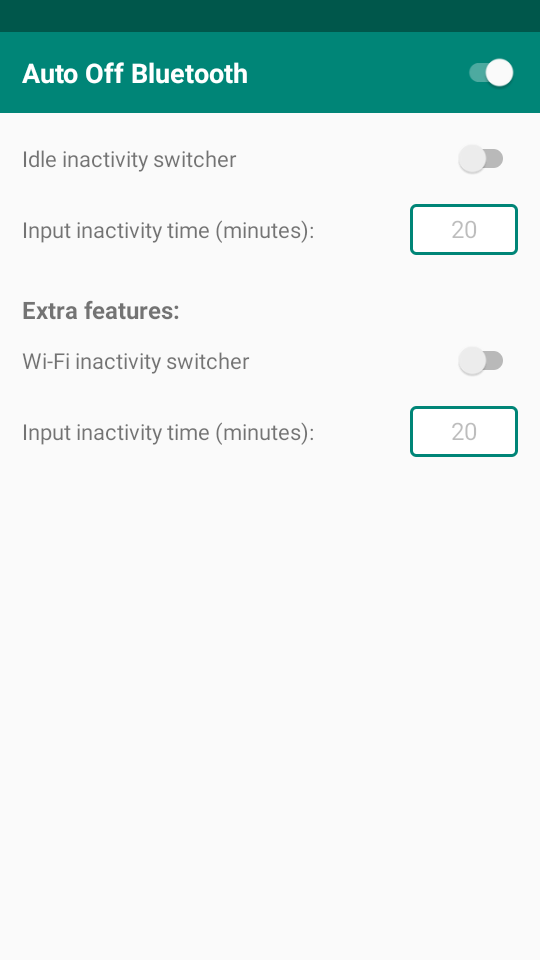
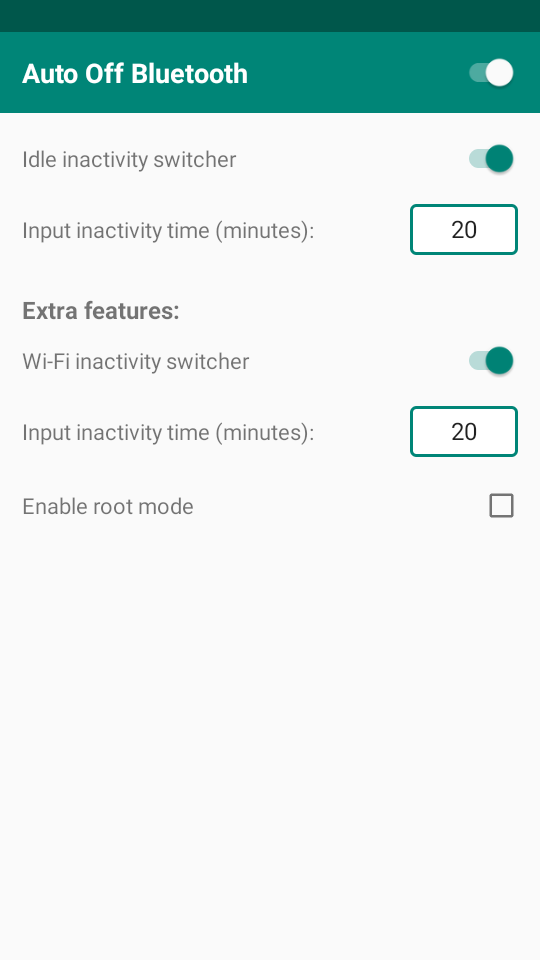
Merge from development (#5)

diff --git a/app/src/main/java/com/mine/autooffbluetooth/MainActivity.java b/app/src/main/java/com/mine/autooffbluetooth/MainActivity.java
@@ -1,7 +1,6 @@
 package com.mine.autooffbluetooth;
 
 import android.Manifest;
-import android.app.AlarmManager;
 import android.bluetooth.BluetoothAdapter;
 import android.content.Context;
 import android.content.Intent;
@@ -16,17 +15,17 @@ import android.provider.Settings;
 import android.text.Editable;
 import android.text.TextWatcher;
 import android.util.Log;
-import android.view.View;
+import android.widget.CheckBox;
 import android.widget.EditText;
 import android.widget.Switch;
 import android.widget.Toast;
+
 import androidx.annotation.NonNull;
-import androidx.appcompat.app.AlertDialog;
 import androidx.appcompat.app.AppCompatActivity;
 import androidx.appcompat.widget.SwitchCompat;
 import androidx.core.app.ActivityCompat;
 import androidx.core.content.ContextCompat;
-import androidx.lifecycle.Lifecycle;
+
 import java.util.ArrayList;
 import java.util.List;
 import java.util.concurrent.Executors;
@@ -34,6 +33,7 @@ import java.util.concurrent.Executors;
 public class MainActivity extends AppCompatActivity {
 
     public static final String PREF_MASTER_SWITCH = "master_switch_enabled";
+    public static final String PREF_WIFI_ROOT_MODE = "wifi_root_mode_enabled";
 
     // Sequential permission flow
     private static final int STEP_RUNTIME_PERMS = 0;
@@ -48,6 +48,7 @@ public class MainActivity extends AppCompatActivity {
     private InactivityTimer inactivityTimer;
     private Switch wifiInactivitySwitch;
     private EditText wifiInactivityTimeInput;
+    private CheckBox rootModeCheckBox;
     private WifiInactivityTimer wifiInactivityTimer;
 
     @Override
@@ -60,7 +61,7 @@ public class MainActivity extends AppCompatActivity {
         initializeInactivityUI();
         initializeWifiInactivityUI();
 
-        // BTReceiver/WifiStateReceiver only ever fire when dynamically registered by this running service - a manifest <receiver> for these actions is never invoked under Android's background limits.
+        // BTReceiver/WifiStateReceiver only ever fire when dynamically registered by this running service.
         ContextCompat.startForegroundService(this, new Intent(this, MonitorService.class));
 
         // Ask for everything the app needs, one prompt at a time
@@ -110,11 +111,11 @@ public class MainActivity extends AppCompatActivity {
         if (inactivitySwitch != null && inactivityTimeInput != null) {
             boolean isEnabled = inactivityTimer.isInactivityEnabled();
             int inactivityMinutes = inactivityTimer.getInactivityTime();
-            
+
             inactivitySwitch.setChecked(isEnabled);
             inactivityTimeInput.setText(String.valueOf(inactivityMinutes));
             inactivityTimeInput.setEnabled(isEnabled);
-            
+
             inactivitySwitch.setOnCheckedChangeListener((buttonView, isChecked) -> {
                 inactivityTimer.setInactivityEnabled(isChecked);
                 inactivityTimeInput.setEnabled(isChecked);
@@ -129,8 +130,11 @@ public class MainActivity extends AppCompatActivity {
             });
 
             inactivityTimeInput.addTextChangedListener(new TextWatcher() {
-                @Override public void beforeTextChanged(CharSequence s, int start, int count, int after) {}
-                @Override public void onTextChanged(CharSequence s, int start, int before, int count) {}
+                @Override
+                public void beforeTextChanged(CharSequence s, int start, int count, int after) {}
+
+                @Override
+                public void onTextChanged(CharSequence s, int start, int before, int count) {}
 
                 @Override
                 public void afterTextChanged(Editable s) {
@@ -141,9 +145,10 @@ public class MainActivity extends AppCompatActivity {
                                 Log.d("MainActivity", "Time updated to " + minutes + "m. Rescheduling timer...");
                                 rescheduleTimerIfNecessary();
                             } else {
-                                Toast.makeText(MainActivity.this, 
-                                    "Min: " + InactivityTimer.getMinInactivityMinutes() + " Max: " + InactivityTimer.getMaxInactivityMinutes(), 
-                                    Toast.LENGTH_SHORT).show();
+                                Toast.makeText(MainActivity.this,
+                                        "Min: " + InactivityTimer.getMinInactivityMinutes()
+                                                + " Max: " + InactivityTimer.getMaxInactivityMinutes(),
+                                        Toast.LENGTH_SHORT).show();
                             }
                         } catch (NumberFormatException e) {
                             Log.e("MainActivity", "Invalid input");
@@ -196,6 +201,37 @@ public class MainActivity extends AppCompatActivity {
     private void initializeWifiInactivityUI() {
         wifiInactivitySwitch = findViewById(R.id.wifiInactivitySwitch);
         wifiInactivityTimeInput = findViewById(R.id.wifiInactivityTimeInput);
+        rootModeCheckBox = findViewById(R.id.rootModeCheckBox);
+
+        SharedPreferences prefs = PreferenceManager.getDefaultSharedPreferences(this);
+
+        if (rootModeCheckBox != null) {
+            rootModeCheckBox.setChecked(prefs.getBoolean(PREF_WIFI_ROOT_MODE, false));
+            rootModeCheckBox.setOnCheckedChangeListener((buttonView, isChecked) -> {
+                if (!isChecked) {
+                    prefs.edit().putBoolean(PREF_WIFI_ROOT_MODE, false).apply();
+                    return;
+                }
+
+                // Verify root access off the main thread because the su prompt may wait for user input.
+                rootModeCheckBox.setEnabled(false);
+                Toast.makeText(this, R.string.rootRequiredMessage, Toast.LENGTH_LONG).show();
+
+                Executors.newSingleThreadExecutor().execute(() -> {
+                    boolean granted = RootUtils.requestRootAccess();
+                    runOnUiThread(() -> {
+                        rootModeCheckBox.setEnabled(true);
+                        if (granted) {
+                            prefs.edit().putBoolean(PREF_WIFI_ROOT_MODE, true).apply();
+                        } else {
+                            prefs.edit().putBoolean(PREF_WIFI_ROOT_MODE, false).apply();
+                            rootModeCheckBox.setChecked(false);
+                            Toast.makeText(MainActivity.this, R.string.rootDeniedMessage, Toast.LENGTH_LONG).show();
+                        }
+                    });
+                });
+            });
+        }
 
         if (wifiInactivitySwitch == null || wifiInactivityTimeInput == null) return;
 
@@ -206,31 +242,15 @@ public class MainActivity extends AppCompatActivity {
         wifiInactivityTimeInput.setText(String.valueOf(inactivityMinutes));
         wifiInactivityTimeInput.setEnabled(isEnabled);
 
-        wifiInactivitySwitch.setOnCheckedChangeListener((buttonView, isChecked) -> {
-            if (isChecked && Build.VERSION.SDK_INT >= Build.VERSION_CODES.Q) {
-                // Android 10+ needs root to toggle Wi-Fi. Request it only now, off the main thread since the su prompt can block on user input.
-                wifiInactivitySwitch.setEnabled(false);
-                Toast.makeText(this, R.string.rootRequiredMessage, Toast.LENGTH_LONG).show();
-                Executors.newSingleThreadExecutor().execute(() -> {
-                    boolean granted = RootUtils.requestRootAccess();
-                    runOnUiThread(() -> {
-                        wifiInactivitySwitch.setEnabled(true);
-                        if (granted) {
-                            applyWifiInactivityEnabled(true);
-                        } else {
-                            Toast.makeText(MainActivity.this, R.string.rootDeniedMessage, Toast.LENGTH_LONG).show();
-                            wifiInactivitySwitch.setChecked(false);
-                        }
-                    });
-                });
-            } else {
-                applyWifiInactivityEnabled(isChecked);
-            }
-        });
+        wifiInactivitySwitch.setOnCheckedChangeListener((buttonView, isChecked) ->
+                applyWifiInactivityEnabled(isChecked));
 
         wifiInactivityTimeInput.addTextChangedListener(new TextWatcher() {
-            @Override public void beforeTextChanged(CharSequence s, int start, int count, int after) {}
-            @Override public void onTextChanged(CharSequence s, int start, int before, int count) {}
+            @Override
+            public void beforeTextChanged(CharSequence s, int start, int count, int after) {}
+
+            @Override
+            public void onTextChanged(CharSequence s, int start, int before, int count) {}
 
             @Override
             public void afterTextChanged(Editable s) {
@@ -242,8 +262,9 @@ public class MainActivity extends AppCompatActivity {
                             refreshWifiTimerIfNecessary();
                         } else {
                             Toast.makeText(MainActivity.this,
-                                "Min: " + WifiInactivityTimer.getMinInactivityMinutes() + " Max: " + WifiInactivityTimer.getMaxInactivityMinutes(),
-                                Toast.LENGTH_SHORT).show();
+                                    "Min: " + WifiInactivityTimer.getMinInactivityMinutes()
+                                            + " Max: " + WifiInactivityTimer.getMaxInactivityMinutes(),
+                                    Toast.LENGTH_SHORT).show();
                         }
                     } catch (NumberFormatException e) {
                         Log.e("MainActivity", "Invalid Wi-Fi inactivity input");
@@ -253,7 +274,6 @@ public class MainActivity extends AppCompatActivity {
         });
     }
 
-    /** Applies the enabled/disabled state after any root check has already been resolved. */
     private void applyWifiInactivityEnabled(boolean enabled) {
         wifiInactivityTimer.setInactivityEnabled(enabled);
         wifiInactivityTimeInput.setEnabled(enabled);
@@ -303,7 +323,6 @@ public class MainActivity extends AppCompatActivity {
                     needed.add("android.permission.POST_NOTIFICATIONS");
                 }
                 if (!needed.isEmpty()) {
-                    // Flow continues in onRequestPermissionsResult()
                     ActivityCompat.requestPermissions(this, needed.toArray(new String[0]),
                             REQ_RUNTIME_PERMS);
                     return;
@@ -335,16 +354,16 @@ public class MainActivity extends AppCompatActivity {
     }
 
     @Override
-    public void onRequestPermissionsResult(int requestCode, @NonNull String[] permissions, @NonNull int[] grantResults) {
+    public void onRequestPermissionsResult(int requestCode, @NonNull String[] permissions,
+                                           @NonNull int[] grantResults) {
         super.onRequestPermissionsResult(requestCode, permissions, grantResults);
         if (requestCode == REQ_RUNTIME_PERMS) {
             for (int i = 0; i < permissions.length; i++) {
-                if (Manifest.permission.BLUETOOTH_CONNECT.equals(permissions[i])) {
-                    if (grantResults[i] != PackageManager.PERMISSION_GRANTED) {
-                        Toast.makeText(this,
-                                "Bluetooth permissions are needed for the app to work.",
-                                Toast.LENGTH_LONG).show();
-                    }
+                if (Manifest.permission.BLUETOOTH_CONNECT.equals(permissions[i])
+                        && grantResults[i] != PackageManager.PERMISSION_GRANTED) {
+                    Toast.makeText(this,
+                            "Bluetooth permissions are needed for the app to work.",
+                            Toast.LENGTH_LONG).show();
                 }
             }
             startPermissionStep(STEP_BATTERY);
@@ -352,14 +371,16 @@ public class MainActivity extends AppCompatActivity {
     }
 
     private boolean isConnectedToAnySSID(Context context) {
-        android.net.wifi.WifiManager wifiManager = (android.net.wifi.WifiManager) context.getApplicationContext()
-                .getSystemService(Context.WIFI_SERVICE);
+        android.net.wifi.WifiManager wifiManager =
+                (android.net.wifi.WifiManager) context.getApplicationContext()
+                        .getSystemService(Context.WIFI_SERVICE);
         if (wifiManager == null || !wifiManager.isWifiEnabled()) return false;
 
         android.net.wifi.WifiInfo wifiInfo = wifiManager.getConnectionInfo();
         if (wifiInfo == null || wifiInfo.getNetworkId() == -1) return false;
 
         String ssid = wifiInfo.getSSID();
-        return ssid != null && !ssid.isEmpty() && !android.net.wifi.WifiManager.UNKNOWN_SSID.equals(ssid);
+        return ssid != null && !ssid.isEmpty()
+                && !android.net.wifi.WifiManager.UNKNOWN_SSID.equals(ssid);
     }
 }

diff --git a/app/src/main/java/com/mine/autooffbluetooth/WifiInactivityAlarmReceiver.java b/app/src/main/java/com/mine/autooffbluetooth/WifiInactivityAlarmReceiver.java
@@ -3,10 +3,11 @@ package com.mine.autooffbluetooth;
 import android.content.BroadcastReceiver;
 import android.content.Context;
 import android.content.Intent;
+import android.content.SharedPreferences;
 import android.net.wifi.SupplicantState;
 import android.net.wifi.WifiInfo;
 import android.net.wifi.WifiManager;
-import android.os.Build;
+import android.preference.PreferenceManager;
 import android.util.Log;
 
 public class WifiInactivityAlarmReceiver extends BroadcastReceiver {
@@ -14,39 +15,54 @@ public class WifiInactivityAlarmReceiver extends BroadcastReceiver {
 
     @Override
     public void onReceive(Context context, Intent intent) {
-        Log.d(TAG, "Wifi Inactivity Alarm triggered.");
+        Log.d(TAG, "Wi-Fi inactivity alarm triggered.");
 
-        WifiManager wifiManager = (WifiManager) context.getApplicationContext().getSystemService(Context.WIFI_SERVICE);
-        if (wifiManager != null) {
-            WifiInfo wifiInfo = wifiManager.getConnectionInfo();
-            
-            // Verify if the hardware is still authenticated
-            boolean isHardwareConnected = wifiInfo != null 
-                    && wifiInfo.getSupplicantState() == SupplicantState.COMPLETED 
-                    && wifiInfo.getNetworkId() != -1;
+        WifiManager wifiManager = (WifiManager) context.getApplicationContext()
+                .getSystemService(Context.WIFI_SERVICE);
+        if (wifiManager == null) {
+            return;
+        }
 
-            if (isHardwareConnected) {
-                Log.d(TAG, "Device is still authenticated to router (likely in Doze state). Aborting Wi-Fi shutdown.");
-                return;
-            }
+        WifiInfo wifiInfo = wifiManager.getConnectionInfo();
 
-            Log.d(TAG, "Device genuinely disconnected. Disabling Wi-Fi.");
-            
-            // Execute Wi-Fi shutdown.
-            if (Build.VERSION.SDK_INT >= Build.VERSION_CODES.Q) {
-                // Android 10+ (API 29+) Root needed to control Wi-Fi
-                try {
-                    Process process = Runtime.getRuntime().exec(new String[]{"su", "-c", "svc wifi disable"});
-                    process.waitFor();
-                    Log.d(TAG, "Wi-Fi disabled via ROOT shell command.");
-                } catch (Exception e) {
-                    Log.e(TAG, "Failed to disable Wi-Fi via ROOT. Ensure app has SU permissions.", e);
-                }
+        // Verify if the device is still authenticated.
+        boolean isHardwareConnected = wifiInfo != null
+                && wifiInfo.getSupplicantState() == SupplicantState.COMPLETED
+                && wifiInfo.getNetworkId() != -1;
+
+        if (isHardwareConnected) {
+            Log.d(TAG, "Device is still authenticated. Aborting Wi-Fi shutdown.");
+            return;
+        }
+
+        Log.d(TAG, "Device disconnected. Attempting to disable Wi-Fi.");
+
+        boolean apiAccepted = wifiManager.setWifiEnabled(false);
+        if (apiAccepted) {
+            Log.d(TAG, "Wi-Fi disable requested via WifiManager.");
+            return;
+        }
+
+        SharedPreferences prefs = PreferenceManager.getDefaultSharedPreferences(context);
+        boolean rootModeEnabled = prefs.getBoolean(MainActivity.PREF_WIFI_ROOT_MODE, false);
+
+        if (!rootModeEnabled) {
+            Log.w(TAG, "WifiManager rejected the request; root mode is not enabled.");
+            return;
+        }
+
+        try {
+            Process process = Runtime.getRuntime().exec(
+                    new String[]{"su", "-c", "svc wifi disable"});
+            int exitCode = process.waitFor();
+
+            if (exitCode == 0) {
+                Log.d(TAG, "Wi-Fi disabled via root shell command.");
             } else {
-                // Android 9- using API
-                wifiManager.setWifiEnabled(false);
-                Log.d(TAG, "Wi-Fi disabled via standard API.");
+                Log.e(TAG, "Root Wi-Fi command failed with exit code " + exitCode + ".");
             }
+        } catch (Exception e) {
+            Log.e(TAG, "Failed to disable Wi-Fi via root.", e);
         }
     }
 }

diff --git a/README.md b/README.md
@@ -36,7 +36,7 @@ The app requires the following permissions to manage your Bluetooth and Wi-Fi ha
 * `FOREGROUND_SERVICE_CONNECTED_DEVICE`: Required for connected-device foreground service behavior.
 * `POST_NOTIFICATIONS`: Required to show status notifications on recent Android versions.
 * **Disable Battery Optimization**: Recommended to exclude the app from battery optimization so background timers work reliably.
-* **Root Access**: Required on Android 10 or later for Wi‑Fi toggle functionality.
+* **Root Access**: Optional. The app first attempts to toggle Wi‑Fi using WifiManager. Enable root mode to allow a root-command fallback on devices where the API approach does not work.
 
 ## Installation & License
 
